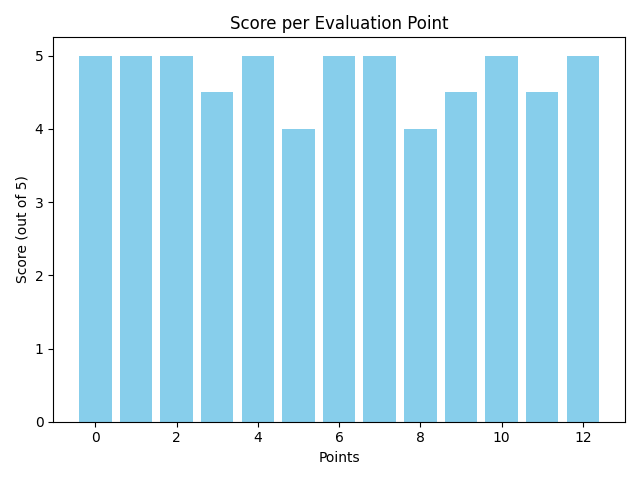
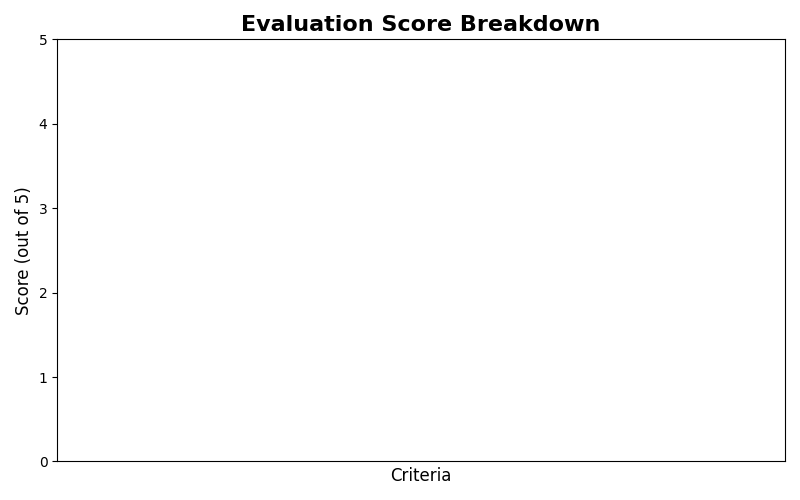
prompt and chart design changed

diff --git a/main.py b/main.py
@@ -31,11 +31,27 @@ def calculate_similarity(text1, text2):
 
 def get_analysis_report(resume, job_desc):
     prompt = f"""
-    Analyze this resume based on the job description. Highlight skills, experience, and qualifications. 
-    Give a score out of 5 for each relevant job description point, use ✅, ❌ or ⚠, and conclude with suggestions.
-    Resume: {resume}
-    Job Description: {job_desc}
-    """
+    You are a professional career consultant with expertise in technical hiring. Your task is to analyze the candidate's resume based on the given job description.
+**Instructions:**
+1. For each requirement or skill in the job description, evaluate whether it is:
+   - Fully met ✅ (Score: 5/5)
+   - Partially met ⚠ (Score: 3/5)
+   - Not met ❌ (Score: 1/5)
+2. Format each point like this:  
+   - [Skill/Requirement Name]: Score: X/5 (✅/⚠/❌) - [Short justification]
+
+3. End with:
+   - Summary of strengths
+   - Summary of weaknesses or gaps
+   - Top 10 missing or weak keywords
+   - Overall suggestions for improvement
+
+**Job Description**:
+{job_desc}
+
+**Resume**:
+{resume}
+"""
     chat_completion = client.chat.completions.create(
         messages=[{"role": "user", "content": prompt}],
         model="llama-3.3-70b-versatile",
@@ -50,7 +66,7 @@ def find_missing_keywords(resume, job_desc):
     resume_words = set(re.findall(r'\b\w+\b', resume.lower()))
     jd_words = set(re.findall(r'\b\w+\b', job_desc.lower()))
     missing = list(jd_words - resume_words)
-    return missing[:20]  # limit for readability
+    return missing[:20]
 
 def send_email_report(to_email, report, filename):
     msg = MIMEMultipart()
@@ -69,22 +85,34 @@ def send_email_report(to_email, report, filename):
         server.login(email_user, email_pass)
         server.send_message(msg)
 
-def plot_scores(scores, filename="score_chart.png"):
+def plot_scores(scores, labels=None, filename="score_chart.png"):
     chart_dir = "charts"
     os.makedirs(chart_dir, exist_ok=True)
     chart_path = os.path.join(chart_dir, filename)
 
-    fig, ax = plt.subplots()
-    ax.bar(range(len(scores)), scores, color='skyblue')
-    ax.set_title("Score per Evaluation Point")
-    ax.set_xlabel("Points")
-    ax.set_ylabel("Score (out of 5)")
+    fig, ax = plt.subplots(figsize=(10, 5))
+
+    if not labels:
+        labels = [f"Point {i+1}" for i in range(len(scores))]
+
+    bars = ax.bar(labels, scores, color='mediumseagreen', edgecolor='black')
+
+    for bar in bars:
+        height = bar.get_height()
+        ax.annotate(f'{height:.1f}', xy=(bar.get_x() + bar.get_width() / 2, height),
+                    xytext=(0, 3), textcoords="offset points", ha='center', fontsize=9, color='black')
+
+    ax.set_ylim(0, 5.5)
+    ax.set_title("Resume Evaluation per Job Requirement", fontsize=14, fontweight='bold')
+    ax.set_ylabel("Score (out of 5)", fontsize=12)
+    ax.set_xlabel("Evaluation Points", fontsize=12)
+    ax.grid(True, axis='y', linestyle='--', alpha=0.7)
+    plt.xticks(rotation=30, ha='right')
     fig.tight_layout()
 
     fig.savefig(chart_path)
     plt.close(fig)
     return chart_path
-
 
 job_desc = st.text_area("Enter Job Description")
 email = st.text_input("Enter your email to receive the report")
@@ -105,9 +133,6 @@ if st.button("Analyze"):
             st.write(f"**Similarity Score:** {similarity:.2f}")
             st.write(f"**Average Evaluation Score:** {avg_score:.2f}")
             st.image(chart_path, caption="Score Chart")
-
-            st.markdown("### Missing Keywords")
-            st.write(', '.join(missing_keywords))
 
             st.markdown("### AI Feedback Report")
             st.markdown(report, unsafe_allow_html=True)
